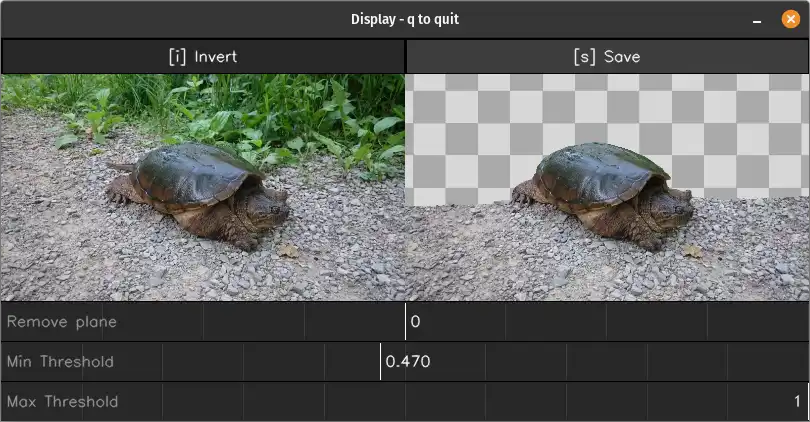
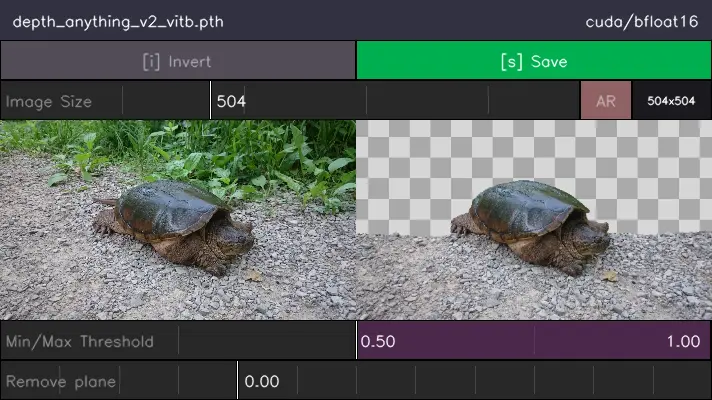
Updated READMEs & screenshots of several experiement scripts (to reflect UI updates)

diff --git a/experiments/README.md b/experiments/README.md
@@ -44,10 +44,11 @@ There are a bewildering number of patterns that come out of these visualizations
 This script was made to visualize the [L2 norms](https://builtin.com/data-science/vector-norms) (i.e. lengths) of the tokens from internal transformer blocks of the DPT models. This is specifically due to the paper: "[Vision Transformers Need Registers](https://arxiv.org/abs/2309.16588)", which suggests that there are unusually high-norm 'patches' within vision transformers when they do not include additional global tokens (similar to a class token), called registers. None of the DPT models (so far) include these registers, and so we'd expect to see the high-norm tokens (which we do!).
 
 <p align="center">
-  <img src=".readme_assets/block_norm_example.webp" alt="Plot of image patch token norms output from each block of the Depth-Anything ViT-L model. The minimum and maximum norm values are printed below each block number. Easily visible outliers appear on block 17 onwards.">
+  <img src=".readme_assets/block_norm_example.webp" alt="Plot of image patch token norms output from each block of the Depth-Anything V2 ViT-B model.">
 </p>
 
-Running this script generates an image showing a plot of the norms of the image patches (tokens) from each transformer block. The high-norm tokens are easily visible in multiple models, usually on the later internal blocks. The minimum and maximum norm values are also printed out for each block, showing norms often in the 100's (rule of thumb suggests they should be around 1).
+This script will generate a plot of the norms of the image patches (tokens) from each transformer block. The high-norm tokens are easily visible in multiple models, usually on the later internal blocks (e.g. the 3 blanked-out tiles in the bottom row of the image above). Any of the blocks can be selected to inspect in more detail on the left, including support for viewing individual channel values (by adjusting the channel slider) as well as viewing a histogram of the displayed values.
+
 
 ## Depth Masking
 
@@ -57,9 +58,9 @@ This script was inspired by a question on the Depth-Anything V2 issues board ([i
   <img src=".readme_assets/depth_masking_example.webp" alt="Image showing an image of a turtle on the left and a masked copy of the image on the right. The mask is set by excluding parts of the image with overly high or low depth values, in this case, the settings have eliminated much of the background.">
 </p>
 
-In the image above, 'far away' regions are masked out, which has the effect of removing much of the background behind the turtle. More generally, an upper and lower depth threshold can be specified and any part of the image with a predicted depth outside this range will be masked. The thresholding can also be inverted (i.e. parts of the image _within_ the range are masked out) and the resulting mask and mask image can be saved. Due to the fact that the [depth predictions are inverted](https://github.com/heyoeyo/muggled_dpt/blob/main/.readme_assets/results_explainer.md), the 'lower' threshold is used to exclude background elements and vice versa for the upper threshold.
+In the image above, 'far away' regions are masked out, which has the effect of removing much of the background behind the turtle. The UI allows for setting an upper and lower threshold which will mask out regions of the depth prediction outside of this range. The masking can also be inverted (i.e. parts of the image _within_ the range are masked out) and the resulting mask and mask image can be saved. Due to the fact that the [depth predictions are inverted](https://github.com/heyoeyo/muggled_dpt/blob/main/.readme_assets/results_explainer.md), the 'lower' threshold is used to exclude background elements and vice versa for the upper threshold.
 
-Masking using depth will tend to be limited due to the presence of a ground plane or other gradually varying elements which have depth values spanning most of the scene. For example, in the image above, the turtle cannot be fully segmented because it shares some depth values with the ground. However, a plane-removal control has been included in the script to help mitigate these sorts of problems by subtracting the gradual ramping depth from the prediction. In practice, this approach to masking is still very limited, for more consistent/controllable masking, consider checking out [MuggledSAM](https://github.com/heyoeyo/muggled_sam)!
+Masking based on depth will tend to be limited due to the presence of a ground plane or other gradually varying elements which have depth values spanning most of the scene. For example, in the image above, the turtle cannot be fully segmented because it shares some depth values with the ground. However, a plane-removal control has been included to help mitigate these sorts of problems by subtracting the gradual ramping depth from the prediction. In practice, this approach to masking is still very limited, for more consistent/controllable masking, consider checking out [MuggledSAM](https://github.com/heyoeyo/muggled_sam)!
 
 
 ## Fusion Scaling
@@ -70,7 +71,7 @@ This script originally started as a test to see what would happen if some of the
   <img src=".readme_assets/fusion_scaling_example.webp" alt="Image showing the UI of the fusion scaling script. The UI features 4 sliders which control the scaling of internal 'fusion features' within the DPT model. Adjusting these scaling terms has a noticable, often interesting looking, effect on the predicted depth results.">
 </p>
 
-Rather than simply disabling fusion layers, this script allows for each layer to be individually scaled (potentially to 0, which disables the layer) while observing the depth result. Interestingly, some of the fusion layers seem to have a kind of 'blurring' effect on the output. Reducing the impact of these blurring layers can lead to results that have far greater details than the normal model output, though this does seem to come at the expense of the correctness of the depth mapping for larger-scale details. Be sure to try this with different image base sizing as well, for example  by running the script with the `-b` flag (e.g. `-b 1000`).
+Rather than simply disabling fusion layers, this script allows for each layer to be individually scaled (potentially to 0, which disables the layer) while observing the depth result. Interestingly, some of the fusion layers seem to have a kind of 'blurring' effect on the output. Reducing the impact of these blurring layers can lead to results that have far greater details than the normal model output, though this does seem to come at the expense of the correctness of the depth mapping for larger-scale details. The effect varies based on image sizing as well, which can be adjusted using a slider above the image (or using the `-b` flag when launching the script).
 
 <p align="center">
   <img src=".readme_assets/fusion_scaling_glitchy_anim.gif" alt="Glitchy visualization obtained by adjusting fusion scaling parameters to unusual settings">
@@ -83,9 +84,14 @@ This script can also generate some wild looking [glitch art](https://en.wikipedi
 
 This script was made to help export DPT models into the [ONNX](https://onnx.ai/onnx/intro/concepts.html) format. These files fully contain the model execution instructions along with the model weights, which makes them simpler to deploy in applications. They can also be used outside of Python/Pytorch.
 
-So far, the script seems to support Depth-Anything & BEiT DPT models and works across variable input image sizes. However, the SwinV2 models can only be exported for fixed-sized input images, as support for different image sizes relies on python control flow statements that do not seem to be compatible with the onnx exporter (it may be possible to fix this at some point). Also note that in order to run this script, you need to install onnx and (to also test the model works) onnxruntime. This can be done using pip:
+So far, the script seems to support Depth-Anything & BEiT DPT models and works across variable input image sizes. However, the SwinV2 models can only be exported for fixed-sized input images, as support for different image sizes relies on python control flow statements that do not seem to be compatible with the onnx exporter (it may be possible to fix this at some point). Also note that in order to run this script, you need to install onnx and (to also test the model works) onnxruntime. This can be done using pip with something like:
 
-`pip install onnx==1.15.* onnxruntime==1.17.*`
+```bash
+pip install onnx==1.* onnxruntime==1.*
+# Note: The onnx library + Pytorch supports seems somewhat unstable...
+# As of writing, the export script has been verified on linux, using:
+# Python v3.13.9, onnx 1.19.0 & onnxruntime 1.23.0
+```
 
 If you export an onnx model, you can view the onnx structure using tools like [netron](https://netron.app/).
 

diff --git a/README.md b/README.md
@@ -6,8 +6,7 @@ This repo contains a simplified implementation of the very cool 'dense predictio
   <img src=".readme_assets/turtle_anim.gif" style="height:280px">
 </p>
 
-While the focus of this implementation is on readability, there are also some performance improvements with MiDaS v3.1 models (40-60% on my GPU at least) due to caching of positional encodings, at the cost of higher VRAM usage (this can be disabled).
-
+In addition to simplifying the codebase, multiple interactive demos are provided (built with [toadui](https://github.com/heyoeyo/toadui)) to help give an intuitive sense of the behavior of these models.
 ### Purpose
 
 The purpose of this repo is to provide an easy to follow code base to understand how the DPT & image encoder models are structured. The scripts found in the [simple_examples](https://github.com/heyoeyo/muggled_dpt/blob/main/simple_examples) folder are a good starting point if you'd like to better understand how to make use of the DPT models. The [run_image.py](https://github.com/heyoeyo/muggled_dpt/blob/main/run_image.py) demo script is a good example of a more practical use of the models.
@@ -127,7 +126,7 @@ python run_image.py
 ```
 You can also add  `--help` to the end of this command to see a list of additional flags you can set when running this script. One especially interesting flag is `-b`, which allows for processing images at higher resolutions.
 
-If you don't provide an image path (using the `-i` flag), then you will be asked to provide one when you run the script, likewise for a path to the model weights. Afterwards, a window will pop-up, with various sliders that can be used to modify the depth visualization. These let you adjust the contrast of the depth visualization, as well as remove a plane-of-best-fit, which can often remove the 'floor' from the depth prediction. You can press `s` to save the current depth image.
+If you don't provide an image path (using the `-i` flag), then you will be asked to provide one when you run the script, likewise for a path to the model weights. Afterwards, a window will pop-up with various sliders that can be used to modify the depth visualization. These let you adjust the contrast of the depth visualization, as well as remove a plane-of-best-fit, which can often remove the 'floor' from the depth prediction. Additionally, there are a number of keyboard shortcuts that will be printed in the terminal.
 
 ## Run Video (or webcam)
 
@@ -141,9 +140,9 @@ python run_video.py
 ```
 As with the image script, you can add `--help` to the end of this command to see a list of additional modifiers flags you can set. For example, you can use a webcam as input using the flag `--use_webcam`. It's possible to record video results (per-frame) using the `--allow_recording` flag.
 
-When processing video, depth predictions are made _asynchrounously_, (i.e. only when the GPU is ready to do more processing). This leads to faster playback/interaction, but the depth results may appear choppy. You can force synchrounous playback using the `-sync` flag or toggling the option within the UI (this also gives more accurate inference timing results).
+When processing video, depth predictions are made _asynchrounously_, (i.e. only when the GPU is ready to do more processing). This leads to faster playback/interaction, but the depth results may appear choppy. You can force synchrounous playback using the `-sync` flag or toggling the option within the UI (this also gives more accurate inference timing results). There are other toggle options available through keypresses, which will be listed out in the terminal.
 
-**Note:** The original DPT implementation is not designed for consistency across video frames, so the results can be very noisy looking. If you actually need video depth estimation, consider [Consistent Depth of Moving Objects in Video](https://dynamic-video-depth.github.io/) and the listed related works.
+**Note:** The original DPT implementation is not designed for consistency across video frames, so the results can be very noisy looking. If you actually need video depth estimation, consider [Consistent Depth of Moving Objects in Video](https://dynamic-video-depth.github.io/) and the listed related works, or the newer [Video-Depth-Anything](https://github.com/DepthAnything/Video-Depth-Anything).
 
 
 ## Run 3D Viewer
@@ -158,15 +157,15 @@ python run_3dviewer.py -l
 ```
 The `-l` flag will launch a browser window, you can leave this out if you prefer to open the page manually. As with the other scripts, you can add `--help` to the end of this command to see the other modifier flags that are available. For example, you can change the `--host` to `"0.0.0.0"` to make the server available to other devices on your network (including smartphones), though this is only recommended if you're on a trusted network! The server supports images, video files and even webcams (using the `--use_webcam` flag when launching the script).
 
-The web interface provides support for visualizing depth data as a 3D model by displacing a dense plane mesh using depth predictions. There are controls for setting the scaling factors needed to [properly interpret](https://github.com/heyoeyo/muggled_dpt?tab=readme-ov-file#note-on-depth-results) the (inverse relative) depth estimate. There are also some controls bound to keypresses, for example the `~` key, which enables recording. An `info` page is available (via a link on the UI) that explains the controls and other available options in more detail.
+The web interface provides support for visualizing depth data as a 3D model by displacing a dense plane mesh using depth predictions. There are controls for setting the scaling factors needed to [properly interpret](https://github.com/heyoeyo/muggled_dpt?tab=readme-ov-file#note-on-depth-results) the (inverse relative) depth estimate. There are also some controls bound to keypresses, for example the `~` key, which enables recording. An `info` page is available (via a link on the UI) that explains the controls and other available options in more detail. It's possible to save the resulting 3D model and import it into 3D editing software, such as [Blender](https://www.blender.org/).
 
 > [!Note]
-> In an attempt to minimize the dependencies for this repo, the server is very simple and is written in plain python. As a result, it has minimal features, efficiency and security. It's built purely for use as a local-running demo and is not suitable for deployment in a production environment!
+> This server is very basic in order to avoid the need for external dependencies. As a result, it is only meant for local-use and is not suitable for deployment in a production environment!
 
 
 ## Note on depth results
 
-The DPT models output results which are related to the _multiplicative inverse_ (i.e. `1/d`) of the true depth! As a result, the closest part of an image will have the _largest_ reported value from the DPT model and the furthest part will have the _smallest_ reported value. Additionally, the reported values will not be distributed linearly, which will make the results look distorted if interpretted geometrically (e.g. as a 3D model).
+The DPT models output results which are related to the _multiplicative inverse_ (i.e. `1/d`) of the true depth! As a result, the closest part of an image will have the _largest_ reported value from the DPT model and the furthest part will have the _smallest_ reported value. Additionally, the reported values will not be distributed linearly, which will make the results look distorted if interpretted (e.g. as a 3D model) without accounting for the inverse mapping.
 
 If you happen to know what the _true_ minimum and maximum depth values are for a given image, you can compute the true depth from the DPT result using:
 
@@ -249,7 +248,3 @@ The code in this repo is based on code from the following sources.
   year={2023}
 }
 ```
-
-# TODOs
-- Inevitable bugfixes
-
